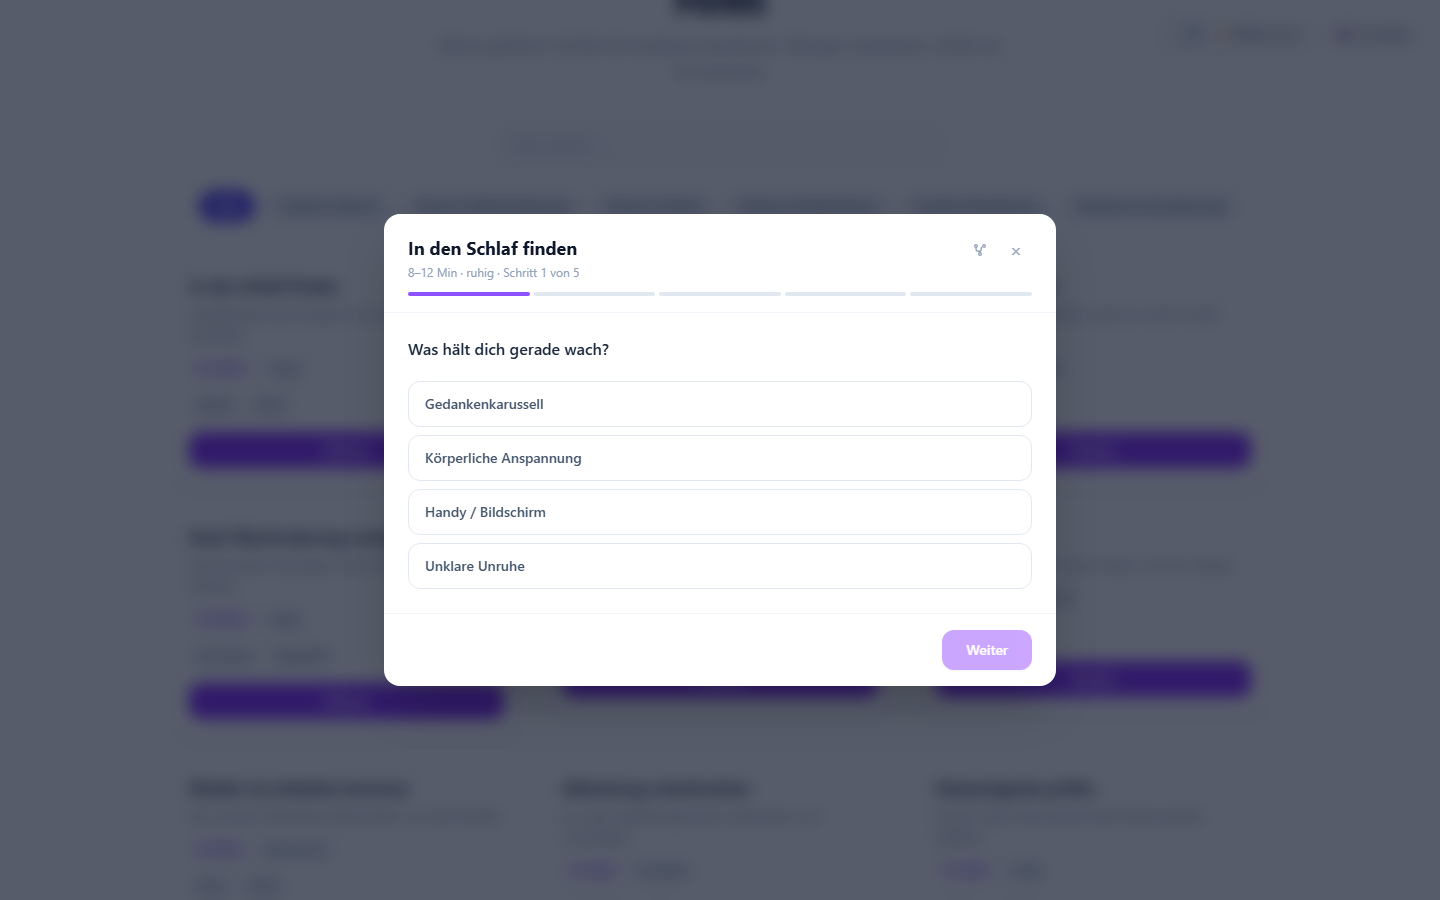
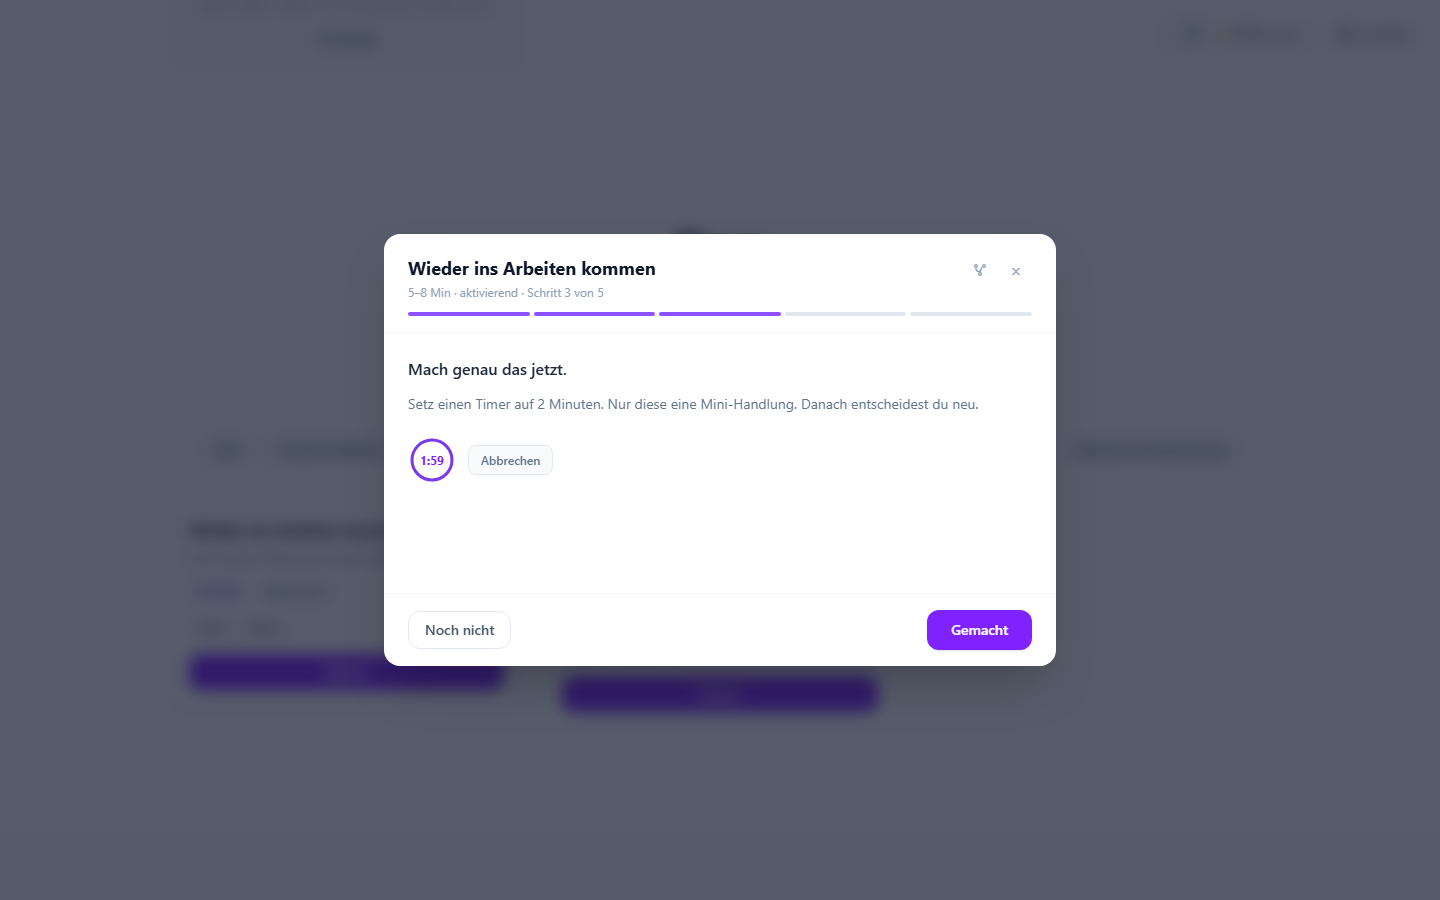
Refactor code structure for improved readability and maintainability

diff --git a/e2e/showcase-screenshots.spec.ts b/e2e/showcase-screenshots.spec.ts
@@ -96,13 +96,58 @@ test('showcase: flow-active', async ({ page }) => {
   await page.goto('/', { waitUntil: 'networkidle' });
   await page.waitForTimeout(400);
 
-  // Click the first flow's "Starten" button
-  const startBtn = page.locator('button', { hasText: 'Starten' }).first();
+  // Find "Wieder ins Arbeiten kommen" flow and start it
+  // First go to the "Fokus & Arbeit" category
+  const fokusChip = page.locator('button', { hasText: 'Fokus & Arbeit' });
+  await fokusChip.click();
+  await page.waitForTimeout(300);
+
+  // Click "Starten" on the "Wieder ins Arbeiten kommen" card
+  const card = page.locator('app-flow-card', { hasText: 'Wieder ins Arbeiten kommen' });
+  const startBtn = card.locator('button', { hasText: 'Starten' });
   await startBtn.click();
   await page.waitForTimeout(500);
 
+  // Step 1: choice — select "Zu viel auf einmal"
+  const option = page.locator('button', { hasText: 'Zu viel auf einmal' });
+  await option.click();
+  await page.waitForTimeout(200);
+  await page.locator('button', { hasText: 'Weiter' }).click();
+  await page.waitForTimeout(400);
+
+  // Step 2: action "Finde die lächerlich kleinste Einstiegshandlung" — advance
+  await page.locator('button', { hasText: 'Hab eine' }).click();
+  await page.waitForTimeout(400);
+
+  // Step 3: action with timer "Mach genau das jetzt" — start the timer
+  const timerBtn = page.locator('button', { hasText: 'Timer starten' });
+  await timerBtn.click();
+  await page.waitForTimeout(1200);
+
+  // Now we're on step 3 with timer running, "Noch nicht" (back) visible
   await page.screenshot({
     path: join(OUT, 'flow-active.png'),
+    fullPage: false,
+  });
+});
+
+test('showcase: flow-graph', async ({ page }) => {
+  await page.goto('/', { waitUntil: 'networkidle' });
+  await page.waitForTimeout(400);
+
+  // Go to Fokus & Arbeit category
+  const fokusChip = page.locator('button', { hasText: 'Fokus & Arbeit' });
+  await fokusChip.click();
+  await page.waitForTimeout(300);
+
+  // Find "Wieder ins Arbeiten kommen" card and click the graph icon
+  const card = page.locator('app-flow-card', { hasText: 'Wieder ins Arbeiten kommen' });
+  const graphBtn = card.locator('button[title="Flow-Karte"]');
+  await graphBtn.click({ force: true });
+  await page.waitForTimeout(600);
+
+  await page.screenshot({
+    path: join(OUT, 'flow-graph.png'),
     fullPage: false,
   });
 });

diff --git a/src/app/pages/home/home.component.ts b/src/app/pages/home/home.component.ts
@@ -437,7 +437,8 @@ export class HomeComponent {
   readonly showcaseTabs = [
     { key: 'dashboard', label: 'Dashboard', src: 'showcase/dashboard.png', url: 'zenya.app/dashboard/adhs-regulation', caption: 'ADHS-Regulations-Dashboard – Regler, Interventionen und Kennzahlen auf einen Blick.' },
     { key: 'verlauf',   label: 'Verlauf',   src: 'showcase/verlauf.png',   url: 'zenya.app/dashboard/adhs-regulation', caption: 'Verlauf – Gespeicherte Momente mit Wellendiagramm und Detail-Radar.' },
-    { key: 'flows',     label: 'Flows',     src: 'showcase/flow-active.png', url: 'zenya.app/', caption: 'Geführter Flow – Schritt für Schritt durch eine konkrete Situation.' },
+    { key: 'flow',      label: 'Flow', src: 'showcase/flow-active.png', url: 'zenya.app/', caption: 'Schritt f\u00fcr Schritt durch eine Situation \u2013 mit Timer, Zur\u00fcck-Option und klarer Handlungsanweisung.' },
+    { key: 'flowmap',   label: 'Flow-Verzweigung', src: 'showcase/flow-graph.png', url: 'zenya.app/', caption: 'Verzweigungsdiagramm \u2013 jeder Flow als visueller Entscheidungsbaum mit R\u00fcckschleifen und Querverweisen.' },
   ];
   showcaseActive = 'dashboard';
 
